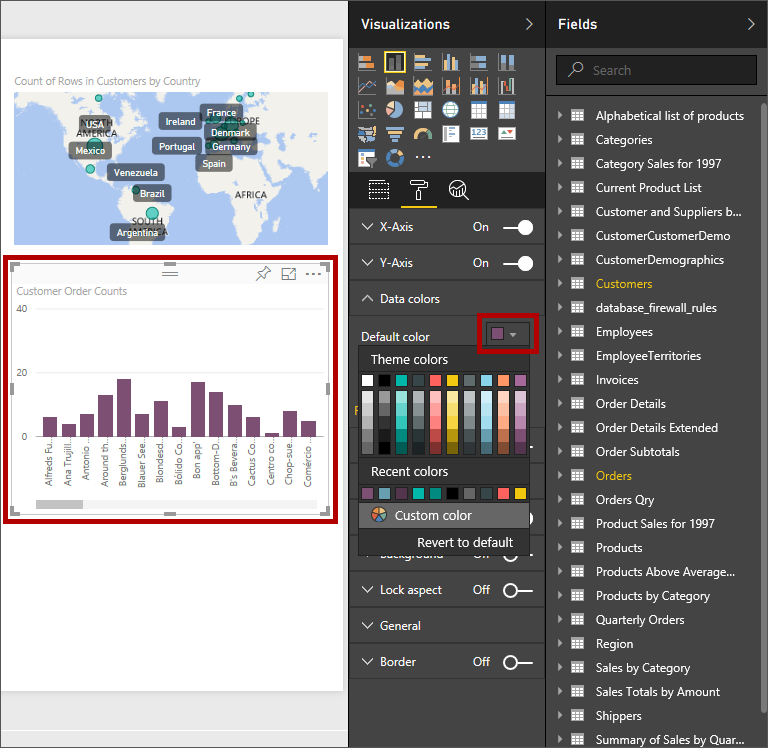
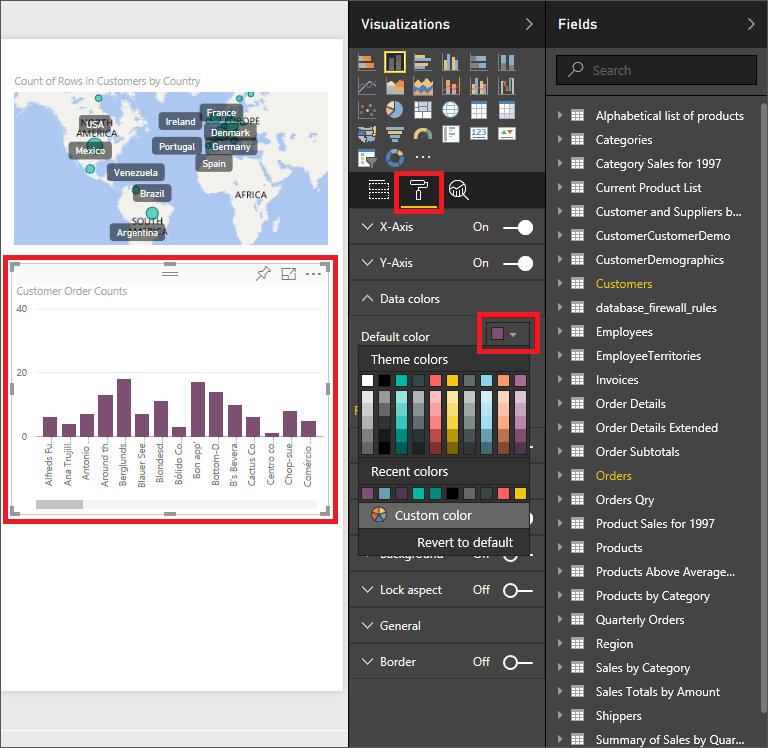
Further edits to Power BI lab

diff --git a/Advanced Analytics/Power BI/Power BI HOL.md b/Advanced Analytics/Power BI/Power BI HOL.md
@@ -223,7 +223,7 @@ Now that you know how to create a simple visualization, it's easy to add related
 	
 	_Changing the fields displayed in a visualization_
 
-1. In the "Visualizations" panel, click the **Map Visualization** icon and observe how the table visualization changes to an interactive map that includes proportionally sized map elements (the green circles) representing the number of customers in different countries. The customer counts come from the Count of Rows field. Now hover the mouse cursor over one of the green circles in the map visualization to display a tooltip containing information about the number of customers in that country. 
+1. In the "Visualizations" panel, click the **Map** icon and observe how the table visualization changes to an interactive map that includes proportionally sized map elements (the green circles) representing the number of customers in different countries. The customer counts come from the Count of Rows field. Now hover the mouse cursor over one of the green circles in the map to display a tooltip containing information about the number of customers in that country. 
 	
 	![Changing a table to a map](Images/portal-change-to-map.png)
 	
@@ -231,118 +231,98 @@ Now that you know how to create a simple visualization, it's easy to add related
 
 1. Click **Save** in the top menu to save the changes to your report.
 	
-	![Saving Report Changes](Images/portal-click-save-menu.png)
+	![Saving your report](Images/portal-click-save-menu.png)
 	
-	_Saving Report Changes_
+	_Saving your report_
 
 The map visualization is a step in right direction toward creating richer visualizations, but your report is still somewhat plain. In the next exercise, you will add more flair.
 
 <a name="Exercise4"></a>
 ## Exercise 4: Enhance and format visualizations ##
 
-No matter how valuable and relevant your data may be, unless it’s presented in a way that’s both easy to understand and visually appealing, consumers and viewers of the data will have challenges understanding and identifying the information in a way that adds value. One of the most effective ways to grab a viewer’s attention, and increase to change of processing and retaining the relevant information, is to apply formatting and other enhancements to the way data is displayed.
+No matter how valuable and relevant your data may be, unless it's presented in a way that's easy to understand and visually appealing, consumers of that data will find it difficult to extract meaning from it. One of the most effective ways to grab a viewer's attention and present data in a meaningful way is to apply formatting and other enhancements to your visualizations. In this exercise, you will enhance the visualizations you have created in order to dress up your report.
 
-To begin enhancing and formatting your existing visualizations:
-
-1. Open the Power BI Services Portal (if it’s not already open from Exercise 3) and click the **hamburger** icon to open the side menu.
-	
-1. Locate the "Reports" section in the side menu and click **Adventure Works**.
-
-	![Opening the Adventure Works report](Images/portal-select-side-report.png)
-	
-	_Opening the Adventure Works report_
-	
-1. Click the header of the slicer visualization.
+1. Click the header of the slicer visualization to select the slicer.
 
 	![Selecting the slicer](Images/portal-select-slicer-header.png)
 	
 	_Selecting the slicer_
 	
-1. Click the **Format** tab in the "Visualizations" panel.
+1. Click the **Format** icon in the "Visualizations" panel.
 
-	![Accessing formatting options](Images/portal-select-format-tab.png)
+	![Displaying formatting options](Images/portal-select-format-tab.png)
 	
-	_Accessing formatting options_
+	_Displaying formatting options_
 	
-1. Expand the "Items" panel and select the color picker in the **Font Color** property and select a new color, such as black.
+1. Click **Items** to expand the "Items" panel. Then use the color picker adjacent to "Font color" to set the font color to black.
 	
 	![Changing the font color](Images/portal-select-color-picker-01.png)
 	
 	_Changing the font color_
 		 
-1. Enter a **Text Size** of **12 pt**. You can optionally drag the slider control to increase or decrease this value.
+1. Change the text size to 12.
 
-	![Changing the font size](Images/portal-select-text-size-01.png)
+	![Changing the text size](Images/portal-select-text-size-01.png)
 	
-	_Changing the font size_
+	_Changing the text size_
 	
-1. Click on the header of the table visualization configured to display a list of customer orders.
+1. Click the header of the table visualization to select it.
 	
 	![Selecting the table visualization](Images/portal-select-table-header.png)
 	
 	_Selecting the table visualization_
 	
-1. Click the **Format** tab in the "Visualizations" panel.
-
-1. Click to expand the "General" panel and enter a **Text Size** of **12 pt**.
+1. Click the **Format** icon in the "Visualizations" panel. Then expand the "General" panel and set the text size to 12.
 	
-	![Setting the text size](Images/portal-select-text-size-02.png)
+	![Changing the text size](Images/portal-select-text-size-02.png)
 	
-	_Setting the text size_
+	_Changing the text size_
 	
-1. Click to expand the "Title" panel. Toggle **Title** to **ON** and enter a **Title Text Size** of “Customer Order Counts”.
+1. Expand the "Title" panel and click the slider to change **Off** to **On**. Then type "Customer Order Counts" (without quotation marks) into the "Title Text" box.
 	
 	![Editing a visualization title](Images/portal-select-title-on.png)
 	
 	_Editing a visualization title_
 	
-1. Click on the header of the map visualization configured to display a list of customer countries.
+1. Click the header of the map visualization to select it.
 	
-	![Editing a visualization title](Images/portal-select-map-header.png)
+	![Selecting the map visualization](Images/portal-select-map-header.png)
 	
-	_Editing a visualization title_
+	_Selecting the map visualization_
 	
-1. Click the **Format** tab in the "Visualizations" panel.
+1. Click the **Format** icon in the "Visualizations" panel. Then expand the "Data colors" panel and use the color picker adjacent to "Default color" to set the default color to purple.
+	
+	![Changing the map's default color](Images/portal-select-color-picker-02.png)
+	
+	_Changing the map's default color_
 
-1. Click to expand the **Data colors** panel and select the color picker in the **Default color** property and select a new color, such as purple.
-	
-	![Changing map colors](Images/portal-select-color-picker-02.png)
-	
-	_Changing map colors_
-
-1. Locate the **Category** label panel and toggle **Show All** to **ON**.
-
-1. Click **Save** in the top menu to save the changes to your report.
+1. Click the slider next to "Category labels" to change **Off** to **On** and turn labels on in the map.
 	
 	![Turning on map labels](Images/portal-select-map-labels-on.png)
 	
-	_Turning on map labels_	
+	_Turning on map labels_
 
-As long as Power BI understands the data relationships in your report, you can continue to alter the formatting and visualization styles to suit your preference. For example, it may be more valuable to view customer orders in a graph or chart format. To change the Table Visualization containing orders to a more visual element:
-
-1. Click on the header of the table visualization configured to display a list of customer orders.
+1. Click the header of the table visualization to select it.
 
 1. Locate the "Orders" table in the "Fields" panel and uncheck **CustomerID** and **OrderId**.
 
-1. Locate the "Customers" table in the "Fields" panel and select the **CompanyName** field.
+1. Locate the "Customers" table in the "Fields" panel and check **CompanyName**.
 	
-	![Changing connected fields](Images/portal-change-connected-fields-02.png)
+	![Adding CompanyName to the table visualization](Images/portal-change-connected-fields-02.png)
 	
-	_Changing connected fields_
+	_Adding CompanyName to the table visualization_
 	
 1. Click the **Stacked column chart** icon in the "Visualizations" panel.
 	
-	![Changing a visualization style](Images/portal-change-column-chart.png)
+	![Changing a table visualization into a stacked column chart](Images/portal-change-column-chart.png)
 	
-	_Changing a visualization style_
+	_Changing a table visualization into a stacked column chart_
 	
-1. Click the **Format** tab in the "Visualizations" panel.
-
-1. Click to expand the "Data colors" panel and select the color picker in the **Default color** property and select a new color, such as purple.
+1. Click the **Format** icon in the "Visualizations" panel. Then expand the "Data colors" panel and use the color picker adjacent to "Default color" to set the default color to purple.
 	
-	![Formatting a visualization](Images/portal-change-chart-formatting.png)
+	![Changing the chart's default color](Images/portal-change-chart-formatting.png)
 	
-	_Formatting a visualization_
+	_Changing the chart's default color_
 	
 1. Click **Save** in the top menu to save the changes to your report.
 	
@@ -350,102 +330,84 @@ As long as Power BI understands the data relationships in your report, you can c
 	
 	_Saving your report_
 	
-Feel free to adjust other values as needed and select different Visualizations to observe how data is displayed differently, as well as selecting and de-selecting customers in your Slicer Visualization to filter displayed content. When you’re satisfied with your enhancements and formatting changes, the next step is to publish and share your report in [Exercise 5: Publishing and Sharing Content").
+Feel free to adjust other values as well and try different visualizations to see how the data is presented. When you are satisfied with your formatting changes, the next step is to publish and share your report.
 
 <a name="Exercise5"></a>
 ## Exercise 5: Publish and share content ##
 
-Power BI makes it easy to publish and share your content with users and groups both internal and external to your organization. Although the publishing and sharing capabilities of Power BI are quite robust, only basic publishing and sharing are available when using the Power BI Web Portal.
+Power BI makes it easy to publish and share your content with users and groups of users, both internal and external to your organization. Although the publishing and sharing capabilities of Power BI are quite robust, only basic publishing and sharing are available when using the Power BI Service Portal. In this exercise, you will insert the report that you created in previous exercises into a dashboard and share that dashboard with other Power BI users. The you will see how Power BI's "Publish to Web" feature can be used to share content with any user.
 
-To share your **Dashboard** with other Power BI users:
+1. Click **Pin Live Page** in the top menu of the Adventure Works dashboard.
+	
+	![Pinning a live page](Images/portal-select-pin-live-page.png)
+	
+	_Pinning a live page_
+	
+1. Select **New dashboard**, enter "Adventure Works" (without quotation marks) as the dashboard title, and click **Pin live**.
+	
+	![Creating a new dashboard](Images/portal-create-new-dashboard.png)
+	
+	_Creating a new dashboard_
+	
+1. Click **Adventure Works** in the "Dashboards" section of the side menu.
 
-1.	Open the Power BI Services Portal (if it’s not already open from Exercise 4) and **click** the **“hamburger”** icon to open the side drawer menu.
-2.	Locate the **Report** section in the side drawer and **click** **Adventure Works**.
+	![Selecting the Adventure Works dashboard](Images/portal-select-new-dashboard.png)
+	
+	_Selecting the Adventure Works dashboard_
+	
+1. Click **Share** in the upper-right corner of the dashboard.
 
-	![Selecting the Report Workspace](Images/portal-select-side-report.png)
+	![Selecting the Share icon](Images/portal-select-share-icon.png)
 	
-	_Selecting the Report Workspace_
+	_Selecting the Share icon_
 	
-3.	**Click** the **Pin Live Page** icon in the **upper right menu** of the **Adventure Works** dashboard.
-	
-	![Pinning a Live Page](Images/portal-select-pin-live-page.png)
-	
-	_Pinning a Live Page_
-	
-3.	On the **Pin to dashboard** dialog **select** **New dashboard**, enter "Adventure Works" for the dashboard title, and then **click** **Pin live**.
-	
-	![Creating a New Dashboard](Images/portal-create-new-dashboard.png)
-	
-	_Creating a New Dashboard_
-	
-	
-	![A Successful Live Report Creation](Images/portal-live-report-pinned.png)
-	
-	_A Successful Live Report Creation_
-	
-2.	Locate the **Dashboard** section in the side drawer and **click** the newly created **Adventure Works** dashboard.
+1. Type your Office 365 e-mail address — the one you logged into Power BI with — into the e-mail address box. Then click **Share** to e-mail yourself a link to the Adventure Works dashboard.
 
-	![Selecting the New Dashboard](Images/portal-select-new-dashboard.png)
-	
-	_Selecting the New Dashboard_
-	
-5.	**Click** the **Share** icon in the **upper right menu** of the **Adventure Works** dashboard.
+	> You are only sharing the dashboard with yourself, but realize that you can share the dashboard with any Power BI user by including the e-mail address that they use to access Power BI in the list of e-mail addresses that you enter.
 
-	![Selecting the Share Icon](Images/portal-select-share-icon.png)
+	![Providing a list of recipients](Images/portal-enter-share-info.png)
 	
-	_Selecting the Share Icon_
+	_Providing a list of recipients_
 	
-6.	Enter your **Office 365 email address** in the text box provided.
-7.	**Click** **Share** to send a share link for your Adventure Works dashboard via email.
+1. Click **Share** again. Click **Access** and copy the URL under **Dashboard Link** to the clipboard. Then click the **Close** button to close the "Share dashboard" panel.
 
-	![Providing Sharing Information](Images/portal-enter-share-info.png)
+	![Copying the dashboard link](Images/portal-optional-share-info.png)
 	
-	_Providing Sharing Information_
-	
-8.	To optionally view the content and experience being shared, **select** the **Access** tab and copy the **Dashboard Link URL** and **paste** it into a **new browser window**.
-9.	
-	![Accessing the Sharing Link](Images/portal-optional-share-info.png)
-	
-	_Accessing the Sharing Link_
-	
+	_Copying the dashboard link_
 
-To publish your **Report** for public access:
+1. Open a new browser tab or window and paste the dashboard link into the address bar to see how the dashboard will appear to users you share it with.
 
-1.	Open the Power BI Services Portal (if it’s not already open from Exercise 4) and **click** the **“hamburger”** icon to open the side drawer menu.
-2.	Locate the **Reports** section in the side drawer and **click** **Adventure Works**.
+1. Sharing a dashboard this way limits its visibility to those you grant access to. However, Power BI also offers a "Publish to Web" feature that allows a report to be embedded in a public Web site or shared publicly through a URL. To demonstrate, return to the Power BI Services Portal and click **Adventure Works** in the "Reports" section of the side menu to open the report.
 
-	![Selecting the Report Workspace](Images/portal-select-side-report.png)
+	![Opening the Adventure Works report](Images/portal-select-side-report.png)
 	
-	_Selecting the Report Workspace_
+	_Opening the Adventure Works report_
 	
-3.	**Click** the **File** menu in the upper right menu of the **Adventure Works** report, followed by **Publish to web**.
-4.	
+1. Click **File** in the menu in the upper-left corner of the report, and then click **Publish to web**.
+		
 	![Publishing to the Web](Images/portal-select-file-publish.png)
 	
 	_Publishing to the Web_
 	
-	>	If this is the first time to publish the current report, Power BI will display a series of dialogs to ensure you understand the public access polices relating to sharing your organizational content. If prompted to review this information:
-		
-	- On the **Embed in a public website** dialog, review the information and **click** **Create embed code**.
+1. Click **Create embed code**.
 
-	![Creating an Embed Code](Images/portal-embed-warning-01.png)
+	![Creating an embed code](Images/portal-embed-warning-01.png)
 	
-	_Creating an Embed Code_
+	_Creating an embed code_
 	
-	- On the subsequent **Embed in a public website** dialog, review the information and **click** **Publish**.
+1. Click **Publish**.
 
-	![The Embedding Information Warning](Images/portal-embed-warning-02.png)
+	![Acknowledging that the report will be public](Images/portal-embed-warning-02.png)
 	
-	_The Embedding Information Warning_
+	_Acknowledging that the report will be public_
 	
-5.	A final dialog will be display containing a share link you can send via email, as well as “embed code” to add to a web page for external viewing.
-6.	
-	![Viewing a Publishing Embed Code](Images/portal-embed-success.png)
-	
-	_Viewing a Publishing Embed Code_
-	
+1. The dialog that ensues contains two important values: a link that you can use to share the report with anyone (whether they're a Power BI user or not), and an IFRAME that you can paste into a Web page to embed the report in the page. Inspect these values, and then click **Close** to close the dialog.
 
-It’s that simple to publish and share your Power BI content. If you’re working with Power BI on a Windows computer, it’s time to move to more advanced scenarios in [Exercise 6: Advanced Modeling](#Exercise6").
+	![Values for sharing a report publicly](Images/portal-embed-success.png)
+	
+	_Values for sharing a report publicly_
+
+It's that simple to publish and share your Power BI content. If you’re working with Power BI on a Windows computer, it’s time to move to more advanced scenarios in [Exercise 6: Advanced Modeling](#Exercise6").
 
 
 <a name="Exercise6"></a>
